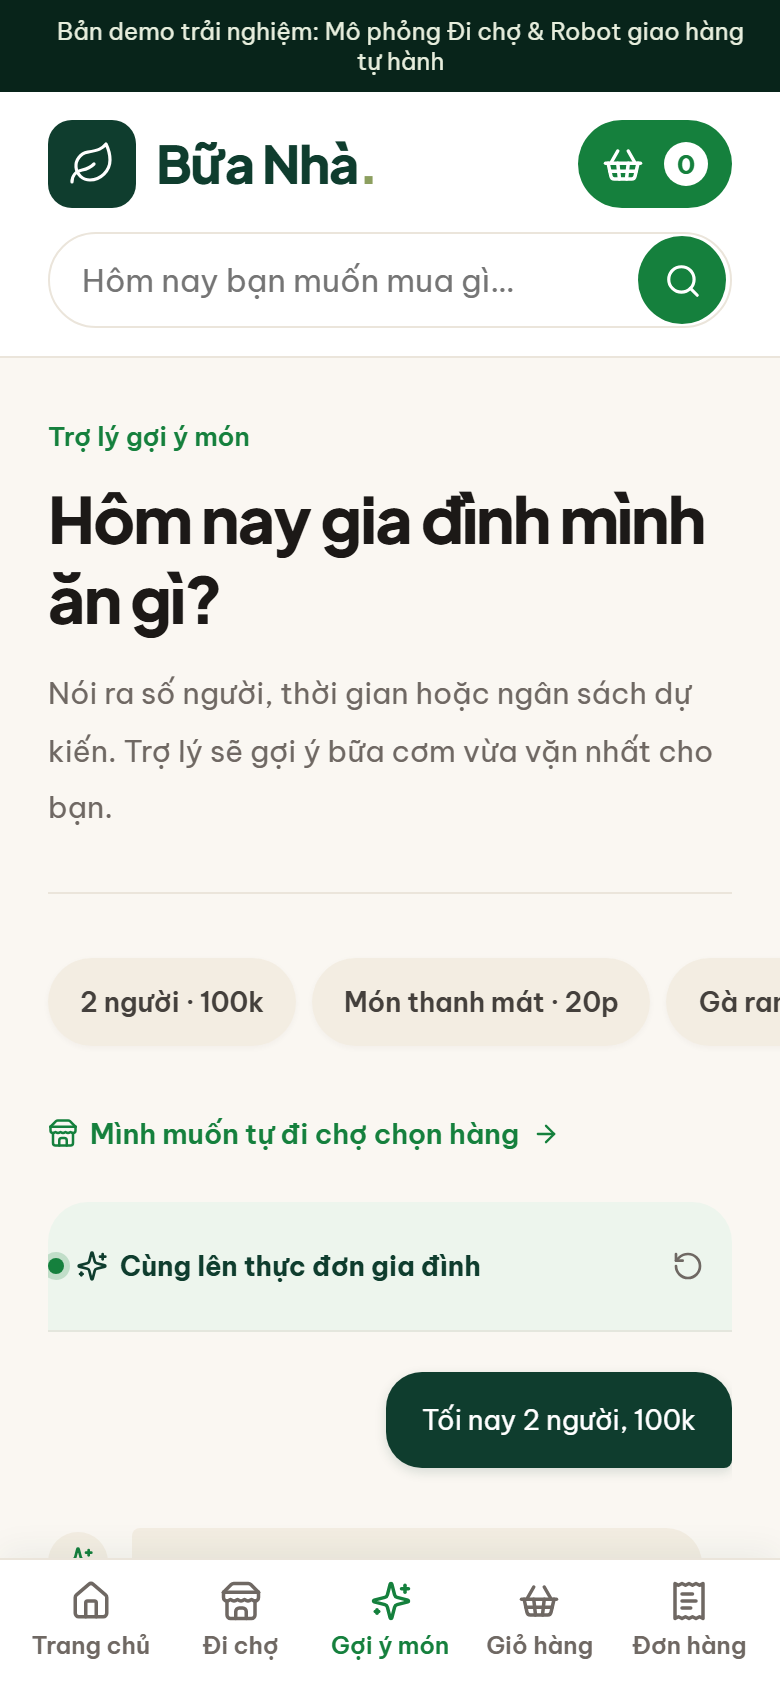
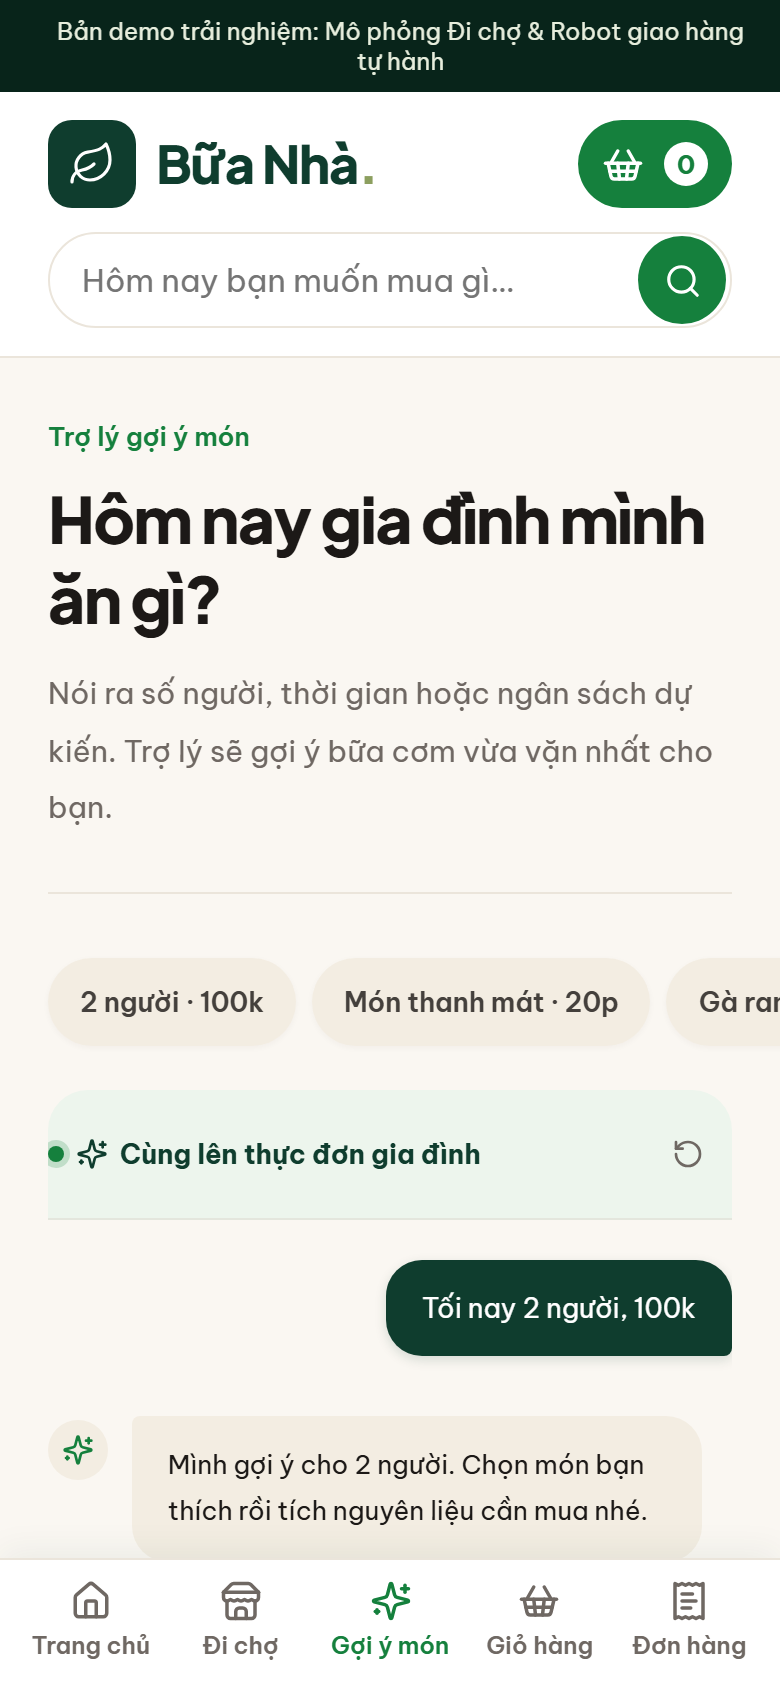
fix(ui): polish assistant recommendation cards and priority for dinner
- Priority ranking: prioritize hearty main dishes (beef, pork, chicken) over standalone sides when budget permits.
- Compact mobile card layout: 2-column card with 72px thumbnail, eliminating 6000px vertical page stretching.
- Clean typography: fix currency symbol line-wrap and show crisp dish tags instead of truncated text.
- Update visual regression snapshots in docs/redesign-shots/.

diff --git a/frontend/src/styles.css b/frontend/src/styles.css
@@ -293,22 +293,134 @@ fieldset { min-width: 0; margin: 0; border: 0; padding: 0; }
 .message-avatar { display: grid; place-items: center; width: 34px; height: 34px; background: var(--bg-warm); color: var(--accent-action); border-radius: 50%; flex-shrink: 0; margin-top: 2px; }
 .message-body { flex: 1; min-width: 0; display: flex; flex-direction: column; gap: 12px; }
 .message-bubble { padding: 13px 18px; background: var(--bg-warm); color: var(--ink); font-size: 13.5px; line-height: 1.6; border-radius: 4px 18px 18px 18px; width: fit-content; max-width: 92%; }
-.suggestion-card { background: var(--bg-warm); border: none; border-radius: 20px; overflow: hidden; margin-top: 6px; box-shadow: none; }
-.suggestion-art-wrap { overflow: hidden; border-radius: 16px; margin: 10px 10px 0; }
-.suggestion-art-wrap.single { width: calc(100% - 20px); height: 150px; }
-.suggestion-art-wrap.multi { display: grid; grid-template-columns: 1fr 1fr; gap: 8px; padding: 10px 10px 0; margin: 0; }
-.suggestion-art-item { position: relative; border-radius: 12px; overflow: hidden; height: 115px; }
-.suggestion-art-visual { width: 100%; height: 100%; }
-.suggestion-art-title { position: absolute; bottom: 6px; left: 6px; right: 6px; background: rgba(255, 255, 255, 0.94); backdrop-filter: blur(4px); padding: 3px 6px; border-radius: 6px; font-size: 11px; font-weight: 600; color: var(--ink); text-align: center; white-space: nowrap; overflow: hidden; text-overflow: ellipsis; }
-.suggestion-body { padding: 16px 18px 18px; }
-.suggestion-title { display: flex; align-items: center; justify-content: space-between; gap: 10px; }
-.suggestion-meta h3 { font-size: 17px; font-weight: 800; color: var(--green); margin: 0; }
-.suggestion-specs { display: flex; align-items: center; gap: 6px; margin-top: 4px; font-size: 12.5px; }
-.suggestion-recipes-list { font-size: 13px; color: var(--ink-soft); margin-top: 10px; line-height: 1.5; }
-.suggestion-reason { font-size: 12.5px; color: var(--muted); margin-top: 8px; line-height: 1.5; }
-.suggestion-footer { display: flex; align-items: center; justify-content: space-between; gap: 14px; margin-top: 16px; padding-top: 12px; border-top: 1px solid rgba(220, 215, 205, 0.5); }
-.suggestion-price-stack { display: flex; flex-direction: column; gap: 2px; }
-.suggestion-price { font-size: 19px; font-weight: 800; color: var(--green); font-variant-numeric: tabular-nums; }
+.suggestion-card {
+  background: #ffffff;
+  border: 1px solid rgba(220, 215, 205, 0.7);
+  border-radius: 18px;
+  overflow: hidden;
+  margin-top: 8px;
+  box-shadow: 0 2px 10px rgba(44, 38, 30, 0.04);
+  display: grid;
+  grid-template-columns: 84px 1fr;
+  gap: 14px;
+  padding: 12px 14px;
+  align-items: center;
+  transition: border-color .15s, box-shadow .15s;
+}
+.suggestion-card:hover {
+  border-color: rgba(21, 128, 61, 0.3);
+  box-shadow: 0 4px 16px rgba(44, 38, 30, 0.08);
+}
+.suggestion-thumb {
+  width: 84px;
+  height: 84px;
+  border-radius: 12px;
+  overflow: hidden;
+  position: relative;
+  background: var(--bg-warm);
+  flex-shrink: 0;
+  display: grid;
+  place-items: center;
+}
+.suggestion-thumb-art {
+  width: 100%;
+  height: 100%;
+}
+.suggestion-thumb-art .recipe-svg-art {
+  width: 100%;
+  height: 100%;
+  object-fit: cover;
+}
+.suggestion-combo-badge {
+  position: absolute;
+  bottom: 4px;
+  left: 4px;
+  right: 4px;
+  font-size: 10px;
+  font-weight: 700;
+  background: rgba(15, 61, 46, 0.9);
+  color: #ffffff;
+  padding: 2px 4px;
+  border-radius: 4px;
+  text-align: center;
+  backdrop-filter: blur(4px);
+}
+.suggestion-info {
+  display: flex;
+  flex-direction: column;
+  gap: 4px;
+  min-width: 0;
+}
+.suggestion-header-row {
+  display: flex;
+  justify-content: space-between;
+  align-items: center;
+  gap: 8px;
+}
+.suggestion-title {
+  font-size: 15px;
+  font-weight: 800;
+  color: var(--green);
+  margin: 0;
+  line-height: 1.3;
+  white-space: nowrap;
+  overflow: hidden;
+  text-overflow: ellipsis;
+}
+.suggestion-time-badge {
+  display: inline-flex;
+  align-items: center;
+  gap: 4px;
+  font-size: 11.5px;
+  font-weight: 600;
+  color: var(--muted);
+  background: var(--bg-warm);
+  padding: 2px 7px;
+  border-radius: 100px;
+  flex-shrink: 0;
+}
+.suggestion-summary {
+  font-size: 12px;
+  color: var(--ink-soft);
+  margin: 0;
+  line-height: 1.4;
+  white-space: nowrap;
+  overflow: hidden;
+  text-overflow: ellipsis;
+}
+.suggestion-footer-row {
+  display: flex;
+  justify-content: space-between;
+  align-items: center;
+  gap: 10px;
+  margin-top: 4px;
+  padding-top: 4px;
+}
+.suggestion-price-box {
+  display: flex;
+  align-items: baseline;
+  gap: 4px;
+  font-size: 11.5px;
+}
+.suggestion-price {
+  font-size: 15.5px;
+  font-weight: 800;
+  color: var(--green);
+  font-variant-numeric: tabular-nums;
+  white-space: nowrap;
+  flex-shrink: 0;
+}
+.suggestion-btn {
+  min-height: 38px !important;
+  padding: 6px 14px !important;
+  font-size: 12.5px !important;
+  border-radius: 100px !important;
+  font-weight: 600 !important;
+  display: inline-flex;
+  align-items: center;
+  gap: 5px;
+  flex-shrink: 0;
+}
 .chat-products { margin-top: 12px; }
 .chat-input { display: flex; align-items: center; gap: 8px; padding: 6px 6px 6px 18px; margin: 14px 22px; border: 1.5px solid rgba(220, 215, 205, 0.7); border-radius: 30px; background: #ffffff; box-shadow: 0 2px 8px rgba(44, 38, 30, 0.04); transition: border-color .15s ease, box-shadow .15s ease; }
 .chat-input input { border: none !important; min-width: 0; flex: 1; font-size: 13.5px; color: var(--ink); background: transparent; padding: 6px 0; }
@@ -596,15 +708,29 @@ fieldset { min-width: 0; margin: 0; border: 0; padding: 0; }
   .chat-messages { padding: 12px 0; min-height: 260px; max-height: none; }
   .message-avatar { width: 30px; height: 30px; }
   .message-bubble { font-size: 13px; max-width: 95%; }
-  .suggestion-card { border-radius: 16px; }
-  .suggestion-art-wrap.single { height: 135px; }
-  .suggestion-art-wrap.multi { gap: 6px; padding: 8px 8px 0; }
-  .suggestion-art-item { height: 95px; }
-  .suggestion-body { padding: 14px 14px 16px; }
-  .suggestion-meta h3 { font-size: 16px; }
-  .suggestion-footer { flex-direction: column; align-items: stretch; gap: 12px; }
-  .suggestion-price-stack { flex-direction: row; justify-content: space-between; align-items: baseline; }
-  .suggestion-footer .button { width: 100%; justify-content: center; min-height: 44px; }
+  .suggestion-card {
+    grid-template-columns: 72px 1fr;
+    gap: 10px;
+    padding: 10px;
+    border-radius: 16px;
+    margin-top: 8px;
+  }
+  .suggestion-thumb {
+    width: 72px;
+    height: 72px;
+    border-radius: 10px;
+  }
+  .suggestion-title { font-size: 14px; max-width: 150px; }
+  .suggestion-time-badge { font-size: 11px; padding: 2px 6px; }
+  .suggestion-summary { font-size: 11.5px; }
+  .suggestion-price { font-size: 14.5px; white-space: nowrap; flex-shrink: 0; }
+  .suggestion-btn {
+    min-height: 36px !important;
+    padding: 6px 10px !important;
+    font-size: 11.5px !important;
+    gap: 4px !important;
+  }
+  .suggestion-btn svg { width: 12px; height: 12px; }
   .chat-followups { padding: 4px 0 10px; }
   .chat-followups .chip { font-size: 12.5px; padding: 10px 14px; min-height: 44px; }
   .chat-input { margin: 10px 0; padding: 5px 5px 5px 16px; }

diff --git a/frontend/src/pages/Assistant.tsx b/frontend/src/pages/Assistant.tsx
@@ -1,6 +1,6 @@
 import {useEffect, useRef, useState} from 'react';
 import {Link} from 'react-router-dom';
-import {ArrowRight, Bot, Clock3, RotateCcw, Send, Sparkles, Store, Users} from 'lucide-react';
+import {ArrowRight, Bot, Clock3, RotateCcw, Send, Sparkles, Store} from 'lucide-react';
 import {api, money} from '../api';
 import {useResource, useStore} from '../context';
 import {LoadState, PageTitle, ProductCard} from '../components';
@@ -98,14 +98,6 @@ export function Assistant() {
             <span>{p.label}</span>
           </button>
         ))}
-      </div>
-
-      <div className="assistant-mobile-sublink">
-        <Link to="/products" className="text-link">
-          <Store size={15} aria-hidden="true" />
-          <span>Mình muốn tự đi chợ chọn hàng</span>
-          <ArrowRight size={14} aria-hidden="true" />
-        </Link>
       </div>
 
       <div className="assistant-layout">
@@ -206,55 +198,41 @@ export function Assistant() {
 
                     {m.result.suggestions.map(s => (
                       <article className="suggestion-card" key={s.id}>
-                        {/* Họa tiết món ăn vector minh họa chân thực */}
-                        {s.recipes && s.recipes.length > 0 && (
-                          <div className={`suggestion-art-wrap ${s.recipes.length > 1 ? 'multi' : 'single'}`}>
-                            {s.recipes.map(r => (
-                              <div className="suggestion-art-item" key={r.id}>
-                                <RecipeVisual recipe={r} className="suggestion-art-visual" decorative={true} />
-                                {s.recipes.length > 1 && (
-                                  <span className="suggestion-art-title">{r.name}</span>
-                                )}
-                              </div>
-                            ))}
-                          </div>
-                        )}
-
-                        <div className="suggestion-body">
-                          <div className="suggestion-title">
-                            <div className="suggestion-meta">
-                              <h3>{s.name}</h3>
-                              <span className="suggestion-specs small muted">
-                                <Users size={13} className="inline-icon" aria-hidden="true" />
-                                <span>{s.servings} người</span>
-                                <Clock3 size={13} className="inline-icon ml-2" aria-hidden="true" />
-                                <span>{s.minutes} phút</span>
-                              </span>
-                            </div>
-                          </div>
-
-                          {s.recipes.length > 1 && (
-                            <p className="suggestion-recipes-list small">
-                              <strong>Mâm cơm gồm: </strong>
-                              {s.recipes.map(r => r.name).join(' · ')}
-                            </p>
+                        <div className="suggestion-thumb">
+                          {s.recipes && s.recipes.length > 0 && (
+                            <RecipeVisual recipe={s.recipes[0]} className="suggestion-thumb-art" decorative={true} />
                           )}
+                          {s.recipes.length > 1 && (
+                            <span className="suggestion-combo-badge">Combo {s.recipes.length} món</span>
+                          )}
+                        </div>
 
-                          <p className="suggestion-reason small muted">{s.reason}</p>
+                        <div className="suggestion-info">
+                          <div className="suggestion-header-row">
+                            <h3 className="suggestion-title">{s.name}</h3>
+                            <span className="suggestion-time-badge">
+                              <Clock3 size={11} aria-hidden="true" />
+                              <span>{s.minutes}p</span>
+                            </span>
+                          </div>
 
-                          <div className="suggestion-footer">
-                            <div className="suggestion-price-stack">
-                              <span className="small muted">Chi phí nguyên liệu dự kiến</span>
-                              <strong className="suggestion-price">{money(s.total)}</strong>
-                            </div>
+                          <p className="suggestion-summary">
+                            {s.recipes.length > 1
+                              ? `Mâm cơm: ${s.recipes.map(r => r.name).join(' · ')}`
+                              : `${s.servings} người · ${s.recipes[0]?.tags?.join(' · ') || 'Món ngon cơm nhà'}`}
+                          </p>
+
+                          <div className="suggestion-footer-row">
+                            <strong className="suggestion-price">{money(s.total)}</strong>
                             <Link
-                              className="button primary small-button"
+                              className="button primary small-button suggestion-btn"
                               to={`/cook?ids=${s.recipes.map(r => r.id).join(',')}&servings=${s.servings}${
                                 s.selections.some(x => x.variant_id) ? '&lighter=1' : ''
                               }`}
+                              aria-label="Chọn món này"
                             >
                               <span>Chọn món này</span>
-                              <ArrowRight size={14} aria-hidden="true" />
+                              <ArrowRight size={13} aria-hidden="true" />
                             </Link>
                           </div>
                         </div>

diff --git a/frontend/src/recipe-art.tsx b/frontend/src/recipe-art.tsx
@@ -271,24 +271,37 @@ function SaladDuaLeoArt({name, className, decorative}: ArtProps) {
   return (
     <ArtFrame bg="#f2f8f1" accent="#368940" name={name} className={className} decorative={decorative}>
       {/* Đĩa sứ phong cách Bắc Âu */}
-      <circle cx="180" cy="110" r="68" fill="#ffffff" stroke="#d5e6d3" strokeWidth="2" />
-      <circle cx="180" cy="110" r="56" fill="#eaf4e8" />
+      <circle cx="180" cy="110" r="70" fill="#ffffff" stroke="#d5e6d3" strokeWidth="2" />
+      <circle cx="180" cy="110" r="58" fill="#eaf4e8" />
       {/* Xà lách xoăn xanh mướt làm nền */}
-      <path d="M136 114c10-18 36-16 48-4s-8 26-26 22-26-4-22-18z" fill="#4fa458" opacity="0.85" />
-      <path d="M174 104c12-16 38-12 44 4s-14 24-28 18-18-8-16-22z" fill="#3c8e45" opacity="0.85" />
-      {/* Lát dưa leo giòn rụm cắt khoanh */}
-      <circle cx="156" cy="108" r="14" fill="#a4dfa7" stroke="#3b8d44" strokeWidth="2.5" />
-      <circle cx="156" cy="108" r="9" fill="#c4f0c7" />
-      <circle cx="186" cy="114" r="15" fill="#a4dfa7" stroke="#3b8d44" strokeWidth="2.5" />
-      <circle cx="186" cy="114" r="10" fill="#c4f0c7" />
-      {/* Cà chua bi bổ đôi đỏ mọng */}
-      <ellipse cx="170" cy="124" rx="11" ry="8" fill="#e2452c" />
-      <ellipse cx="170" cy="124" rx="8" ry="5.5" fill="#f16852" />
-      <ellipse cx="196" cy="98" rx="10" ry="7.5" fill="#e2452c" />
-      {/* Hạt tiêu đen xay nhuyễn và sốt dầu giấm bóng bẩy */}
-      <circle cx="164" cy="112" r="1.6" fill="#2b231d" />
-      <circle cx="178" cy="108" r="1.8" fill="#2b231d" />
-      <circle cx="188" cy="126" r="1.6" fill="#2b231d" />
+      <path d="M128 116c14-22 52-20 72-8s10 32-12 30-46-2-60-22z" fill="#4fa458" opacity="0.85" />
+      <path d="M165 92c20-14 46-6 50 16s-20 28-36 20-22-16-14-36z" fill="#3c8e45" opacity="0.8" />
+      <path d="M140 120c16-10 40-10 52 4s-14 20-30 16-24-8-22-20z" fill="#5db767" opacity="0.9" />
+      {/* Các lát dưa leo xếp so le tự nhiên */}
+      <g transform="translate(142, 96) rotate(-15)">
+        <ellipse cx="0" cy="0" rx="14" ry="10" fill="#a4dfa7" stroke="#3b8d44" strokeWidth="2" />
+        <ellipse cx="0" cy="0" rx="9" ry="6" fill="#c4f0c7" />
+      </g>
+      <g transform="translate(172, 92) rotate(20)">
+        <ellipse cx="0" cy="0" rx="15" ry="11" fill="#a4dfa7" stroke="#3b8d44" strokeWidth="2" />
+        <ellipse cx="0" cy="0" rx="10" ry="7" fill="#c4f0c7" />
+      </g>
+      <g transform="translate(198, 114) rotate(-25)">
+        <ellipse cx="0" cy="0" rx="14" ry="10" fill="#a4dfa7" stroke="#3b8d44" strokeWidth="2" />
+        <ellipse cx="0" cy="0" rx="9" ry="6" fill="#c4f0c7" />
+      </g>
+      <g transform="translate(150, 126) rotate(10)">
+        <ellipse cx="0" cy="0" rx="13" ry="9" fill="#a4dfa7" stroke="#3b8d44" strokeWidth="2" />
+        <ellipse cx="0" cy="0" rx="8" ry="5.5" fill="#c4f0c7" />
+      </g>
+      {/* Cà chua bi bổ đôi đỏ mọng rải rác */}
+      <path d="M160 110c6-12 18-8 18 4s-12 14-18-4z" fill="#e2452c" />
+      <path d="M182 120c4-10 16-6 16 6s-10 12-16-6z" fill="#e2452c" />
+      <path d="M136 104c8-10 18-4 16 8s-14 10-16-8z" fill="#e2452c" />
+      {/* Tiêu đen và sốt dầu giấm */}
+      <circle cx="162" cy="102" r="1.5" fill="#2b231d" />
+      <circle cx="176" cy="114" r="1.6" fill="#2b231d" />
+      <circle cx="188" cy="106" r="1.5" fill="#2b231d" />
     </ArtFrame>
   );
 }

diff --git a/backend/app/assistant.py b/backend/app/assistant.py
@@ -87,7 +87,15 @@ class RuleBasedProvider:
                 else "Mình chưa tìm thấy sản phẩm đó. Bạn thử tên như thịt bò, cà chua hoặc trứng nhé."
             )
             return result
-        recipes = list(db.scalars(select(Recipe).order_by(Recipe.minutes, Recipe.id)))
+
+        def recipe_priority(r):
+            is_main = any(t in ["món mặn", "bò", "gà", "heo", "cá"] for t in r.tags)
+            is_salad = r.id == "salad-dua-leo"
+            if "salad" in text or "song" in text:
+                return (0 if is_salad else 1, r.minutes, r.id)
+            return (0 if is_main else 2 if is_salad else 1, r.minutes, r.id)
+
+        recipes = sorted(db.scalars(select(Recipe)), key=recipe_priority)
         changing = "doi" in text or "khong thich" in text or "mon khac" in text
         direct = next((r for r in recipes if contains(text, normalize(r.name))), None)
         if direct:
